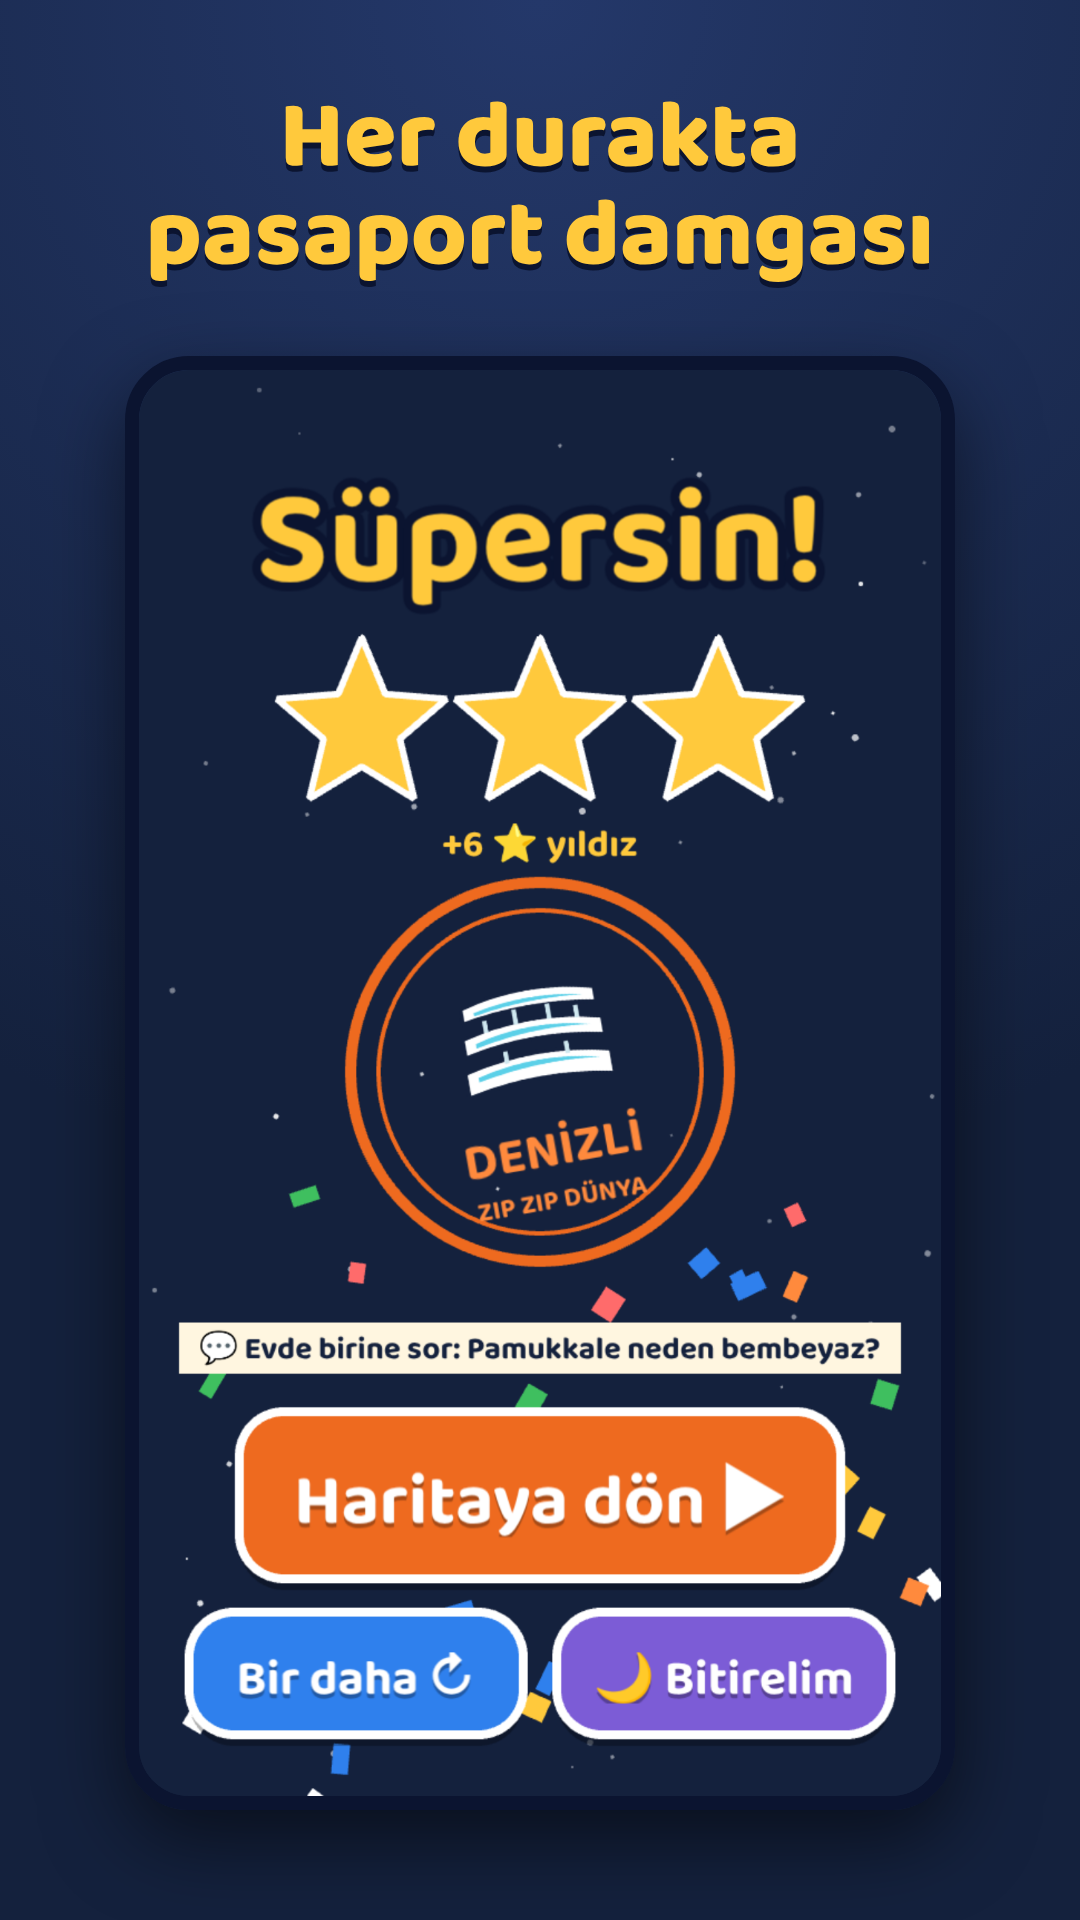
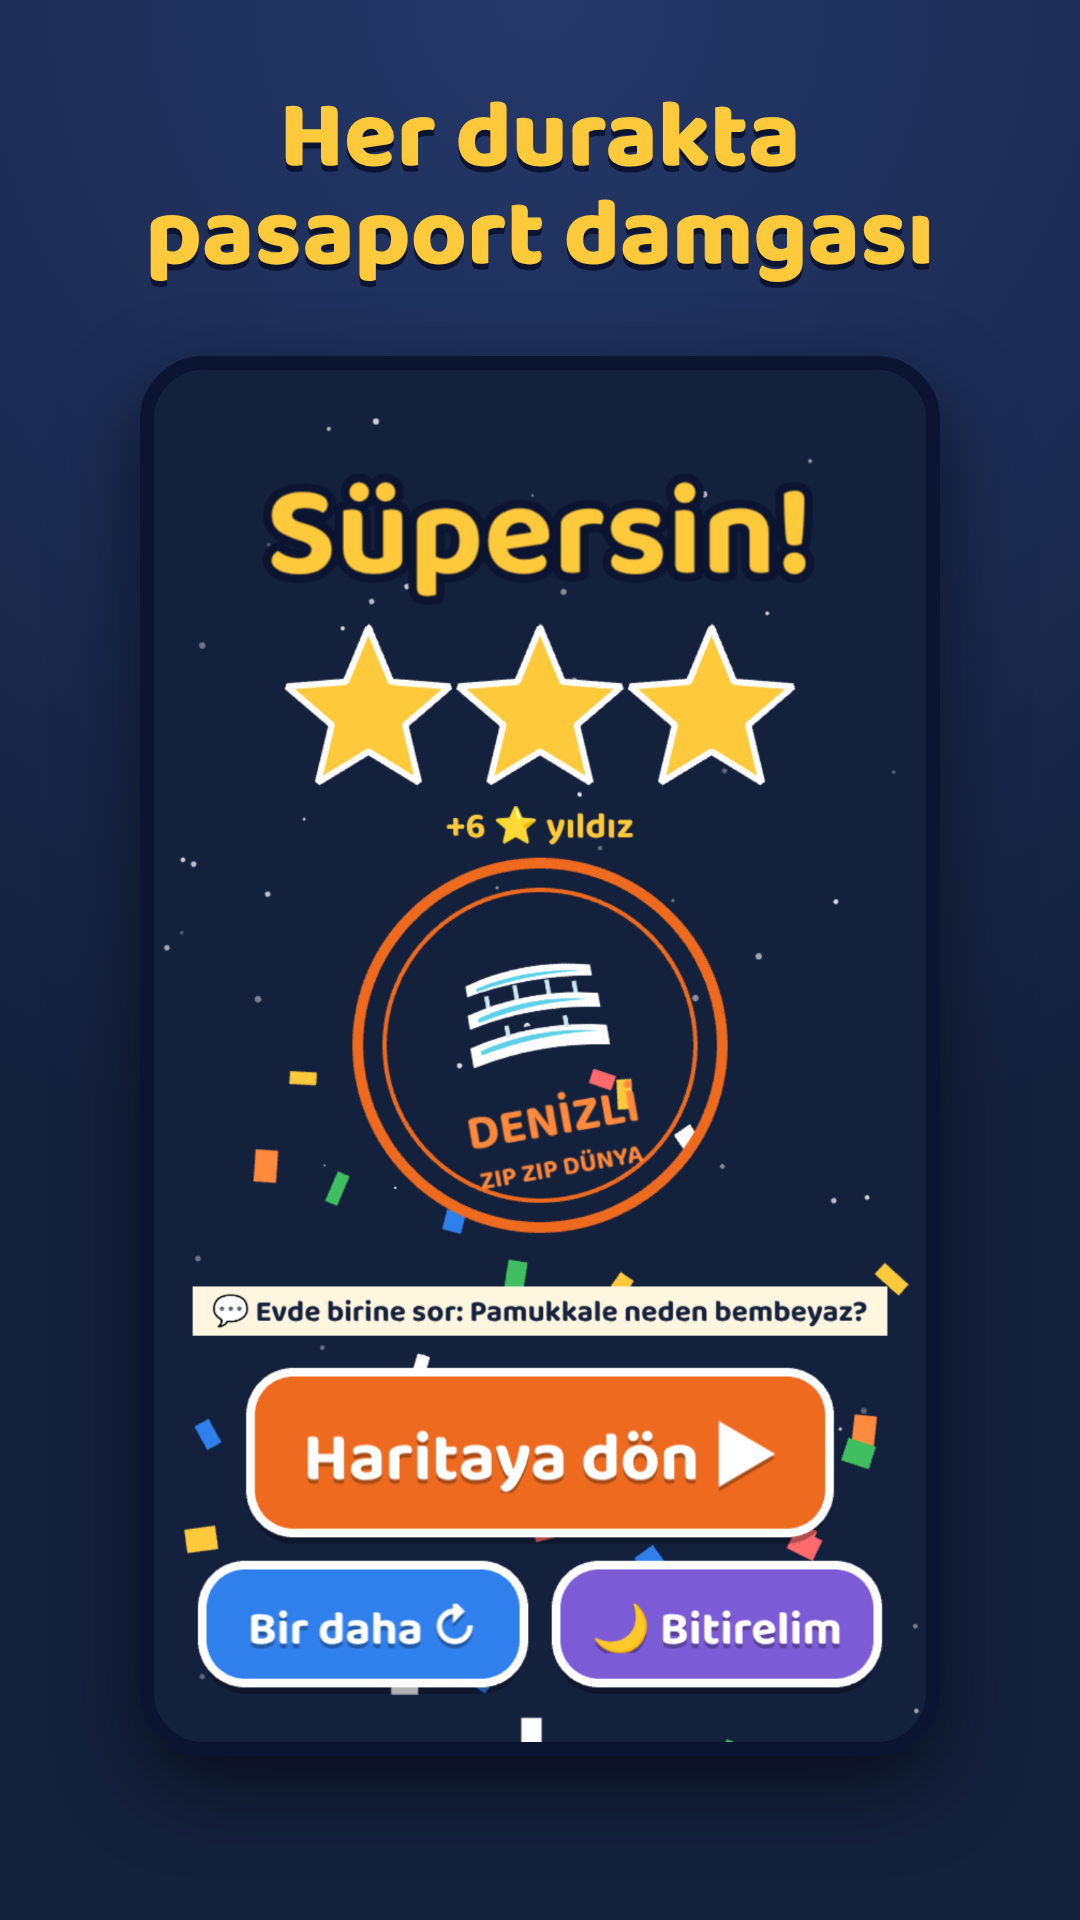
Mağaza görselleri: App Store için iPhone ve iPad ekran görüntüleri, Büyük Macera ekranı
Her cihazın görüntüsü kendi ekran boyutunda çekilir (iPad'de oyun gerçekten nasıl görünüyorsa).
Play görselleri de yenilendi (Okyanus ve kostümlerle).

Claude-Session: https://claude.ai/code/session_01V7wnjAAFpVixHdZQkEKPbr

Changed region(s): [[0.1528, 0.25, 0.8861, 0.9375], [0.8556, 0.1875, 0.8861, 0.2188], [0.1222, 0.1875, 0.1528, 0.2188]]

diff --git a/docs/magaza-rehberi.md b/docs/magaza-rehberi.md
@@ -68,7 +68,8 @@ kimseyle paylaşmayın**.
 
 **Mağaza sayfası görselleri** (kapalı test için de gerekir): `docs/magaza-gorselleri/` klasöründe.
 `ekran-1..7.png` telefon ekran görüntüleri (1080×1920), `tanitim-1024x500.png` "Öne çıkan grafik",
-`ikon-512.png` uygulama simgesi. Oyun değişince yeniden üretmek için: `npx vite --port 5173` açıkken
+`ikon-512.png` uygulama simgesi. App Store için `iphone/` (1320×2868, 6.9 inç iPhone) ve `ipad/`
+(2064×2752, 13 inç iPad; uygulama iPad'de de çalıştığı için Apple ikisini de ister) klasörleri; aynı 7 ekran, aynı sıra. Oyun değişince yeniden üretmek için: `npx vite --port 5173` açıkken
 `node scripts/magaza-gorselleri.mjs`.
 
 **Her yeni test sürümünde:**
